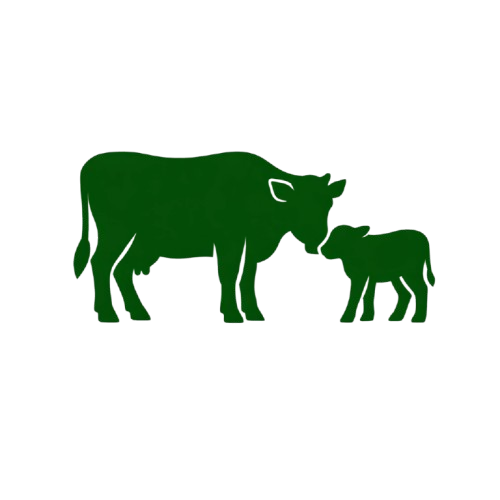
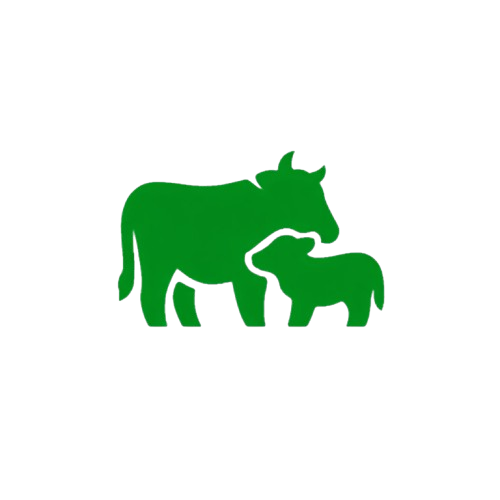
Refatora cores e ajusta ícones da interface
Refatora o uso de cores fixas para usar o tema configurável,
garantindo consistência visual e facilitando a manutenção.
Atualiza ícones e o layout de alertas para melhor clareza.

Remove imagem desnecessária.

Changed region(s): [[0.12, 0.3, 0.87, 0.66]]

diff --git a/src/app/home/index.tsx b/src/app/home/index.tsx
@@ -136,7 +136,7 @@ export default function HomeScreen() {
                 number={stats.healthy}
                 title="Saudáveis"
                 icon="favorite"
-                color={STATUS_CATTLE["healthy"].color}
+                color={colors[STATUS_CATTLE["healthy"].color]}
                 onPress={() => navigation.navigate("CattleList", { status: "healthy" })}
               />
               {/* Em Tratamento */}
@@ -144,7 +144,7 @@ export default function HomeScreen() {
                 number={stats.inTreatment}
                 title="Em Tratamento"
                 icon="medical-services"
-                color={STATUS_CATTLE["in_treatment"].color}
+                color={colors[STATUS_CATTLE["in_treatment"].color]}
                 onPress={() => navigation.navigate("CattleList", { status: "in_treatment" })}
               />
             </View>
@@ -154,7 +154,7 @@ export default function HomeScreen() {
                 number={stats.pendingVaccines}
                 title="Vacinas Pendentes"
                 icon="vaccines"
-                color={STATUS_CATTLE["pending_vaccine"].color}
+                color={colors[STATUS_CATTLE["pending_vaccine"].color]}
                 onPress={() => navigation.navigate("VaccinePending")}
               />
 
@@ -163,16 +163,17 @@ export default function HomeScreen() {
                 number={stats.pregnant}
                 title="Gestantes"
                 icon="stroller"
-                color={STATUS_CATTLE["pregnancy"].color}
+                color={colors[STATUS_CATTLE["pregnancy"].color]}
                 onPress={() => navigation.navigate("CattleList", { status: "pregnancy" })}
               />
             </View>
 
             {/* Atrasadas */}
             {stats.overduePregnancies > 0 && (
-              <View className="rounded-2xl p-4 border border-error bg-error/20">
-                <Text className="text-error font-semibold">
-                  ⚠ {stats.overduePregnancies} gestação{stats.overduePregnancies > 1 ? "ões" : ""} atrasada
+              <View className="flex-row rounded-2xl p-4 border border-error bg-surface items-center gap-2">
+                <IconSymbol name="warning-amber" color={colors.error} size={30} />
+                <Text className="text-muted font-semibold">
+                  {stats.overduePregnancies} gestaç{stats.overduePregnancies > 1 ? "ões" : "ão"} atrasada
                   {stats.overduePregnancies > 1 ? "s" : ""} - Verificar!
                 </Text>
               </View>
@@ -202,10 +203,7 @@ export default function HomeScreen() {
               style={{ opacity: 1 }}
             >
               <View className="flex-row items-center gap-3">
-                <View
-                  className="w-10 h-10 rounded-full items-center justify-center"
-                  style={{ backgroundColor: "#ffffff20" }}
-                >
+                <View className="w-10 h-10 bg-milk_production/20 rounded-full items-center justify-center">
                   <Text className="text-lg">🥛</Text>
                 </View>
                 <Text className="text-foreground font-semibold">Produção de Leite</Text>
@@ -233,10 +231,7 @@ export default function HomeScreen() {
               style={{ opacity: 1 }}
             >
               <View className="flex-row items-center gap-3">
-                <View
-                  className="w-10 h-10 rounded-full items-center justify-center"
-                  style={{ backgroundColor: "#ffd90020" }}
-                >
+                <View className="w-10 h-10 rounded-full items-center justify-center">
                   <Text className="text-lg">🔔</Text>
                 </View>
                 <Text className="text-foreground font-semibold">Notificações Agendadas</Text>

diff --git a/src/components/pregnancy-timeline.tsx b/src/components/pregnancy-timeline.tsx
@@ -1,17 +1,17 @@
 import { Text, TouchableOpacity, View } from "react-native";
 
+import { ThemeColorPalette } from "@/constants/theme";
 import { useColors } from "@/hooks/use-colors";
 import { calculateDaysPregnant, formatDate } from "@/lib/helpers";
 import { Pregnancy } from "@/types";
 
 import { CardEdit } from "./card-edit";
 
-function getStatusColor(isPastDue: boolean, primary: string, result?: string): string {
-  if (result === "success") return "#22C55E";
-  if (result === "complications") return "#F59E0B";
-  if (result === "failed") return "#EF4444";
-  if (isPastDue) return "#EF4444";
-  return primary;
+function getStatusColor(isPastDue: boolean, result?: string): keyof ThemeColorPalette {
+  if (result === "success") return "success";
+  if (result === "complications") return "pregnant_delayed";
+  if (result === "failed" || isPastDue) return "error";
+  return "primary";
 }
 interface PregnancyTimelineProps {
   pregnancy: Pregnancy;
@@ -46,7 +46,7 @@ export function PregnancyTimeline({
   const isPastDue = today > expectedBirthDate && pregnancy.result === "pending";
   const isCompleted = pregnancy.result !== "pending";
 
-  const statusColor = getStatusColor(isPastDue, colors.primary, pregnancy.result);
+  const statusColor = colors[getStatusColor(isPastDue, pregnancy.result)];
 
   return (
     <CardEdit
@@ -82,7 +82,7 @@ export function PregnancyTimeline({
         </View>
         <View className="flex-row justify-between">
           <Text className="text-sm text-muted">Previsão de Parto</Text>
-          <Text className="text-sm font-semibold" style={{ color: isPastDue ? "#EF4444" : colors.foreground }}>
+          <Text className="text-sm font-semibold" style={{ color: isPastDue ? colors.error : colors.foreground }}>
             {formatDate(pregnancy.expectedBirthDate)}
           </Text>
         </View>
@@ -139,10 +139,7 @@ export function PregnancyBadge({ pregnancy }: PregnancyBadgeProps) {
 
   return (
     <View className="px-2 py-0.5 rounded-full mt-1 self-start bg-primary/20">
-      <Text
-        className="text-xs font-medium"
-        style={{ color: getStatusColor(isPastDue, colors.primary, pregnancy.result) }}
-      >
+      <Text className="text-xs font-medium" style={{ color: colors[getStatusColor(isPastDue, pregnancy.result)] }}>
         {getStatusText()}
       </Text>
     </View>

diff --git a/src/components/disease-record.tsx b/src/components/disease-record.tsx
@@ -1,6 +1,7 @@
 import { Text, View } from "react-native";
 
 import { DISEASE_RESULT_LABELS } from "@/constants/const";
+import { useColors } from "@/hooks";
 import { formatDate } from "@/lib/helpers";
 import { Disease } from "@/types";
 
@@ -13,23 +14,24 @@ interface DiseaseRecordProps {
 }
 
 export function DiseaseRecord({ disease, onEdit, onDelete }: DiseaseRecordProps) {
+  const colors = useColors();
+  const resultLabel = DISEASE_RESULT_LABELS[disease.result];
+  const colorValue = colors[resultLabel.color];
+
   return (
     <CardEdit
       className="p-4 flex-row items-center justify-between"
       style={{ opacity: 1 }}
-      accessibilityLabel={`Doença ${disease.type}, status: ${DISEASE_RESULT_LABELS[disease.result].text}`}
+      accessibilityLabel={`Doença ${disease.type}, status: ${resultLabel.text}`}
       accessibilityRole="button"
       handleEdit={onEdit}
       handleDelete={onDelete}
       title={disease.type}
-      icon={DISEASE_RESULT_LABELS[disease.result].icon}
+      icon={resultLabel.icon}
       label={
-        <View
-          className="px-2 py-0.5 rounded-full"
-          style={{ backgroundColor: `${DISEASE_RESULT_LABELS[disease.result].color}20` }}
-        >
-          <Text className="text-xs font-medium" style={{ color: DISEASE_RESULT_LABELS[disease.result].color }}>
-            {DISEASE_RESULT_LABELS[disease.result].text}
+        <View className="px-2 py-0.5 rounded-full" style={{ backgroundColor: `${colorValue}20` }}>
+          <Text className="text-xs font-medium" style={{ color: colorValue }}>
+            {resultLabel.text}
           </Text>
         </View>
       }

diff --git a/src/constants/const.ts b/src/constants/const.ts
@@ -1,3 +1,4 @@
+import { type ThemeColorPalette } from "@/lib/_core/theme";
 import { CattleResult, DiseaseResult, PregnancyResult } from "@/types";
 
 export const COOKIE_NAME = "app_session_id";
@@ -75,7 +76,10 @@ export const PREGNANCY_RESULT_LABELS: Record<PregnancyResult, string> = {
 /**
  * Labels para resultados de tratamento
  */
-export const DISEASE_RESULT_LABELS: Record<DiseaseResult, { color: string; text: string; icon: string }> = {
+export const DISEASE_RESULT_LABELS: Record<
+  DiseaseResult,
+  { color: keyof ThemeColorPalette; text: string; icon: string }
+> = {
   in_treatment: { text: "Em Tratamento", color: "treatment", icon: "🏥" },
   cured: { text: "Curado", color: "healthy", icon: "💚" },
   death: { text: "Óbito", color: "deceased", icon: "🪦" },
@@ -84,7 +88,7 @@ export const DISEASE_RESULT_LABELS: Record<DiseaseResult, { color: string; text:
 /**
  * STATUS do GADO
  */
-export const STATUS_CATTLE: Record<CattleResult, { color: string; text: string; icon: string }> = {
+export const STATUS_CATTLE: Record<CattleResult, { color: keyof ThemeColorPalette; text: string; icon: string }> = {
   in_treatment: { color: "treatment", text: "Em Tratamento", icon: "🏥" },
   healthy: { color: "healthy", text: "Saudável", icon: "💚" },
   death: { color: "deceased", text: "Óbito", icon: "🪦" },

diff --git a/src/components/vaccine-item.tsx b/src/components/vaccine-item.tsx
@@ -31,7 +31,7 @@ export function VaccineItem({ vaccine, onEdit, onDelete }: VaccineItemProps) {
             <Text
               className="text-sm mt-1"
               style={{
-                color: daysUntilNextDose !== null && daysUntilNextDose < 0 ? "#EF4444" : colors.success,
+                color: daysUntilNextDose !== null && daysUntilNextDose < 0 ? colors.error : colors.success,
               }}
             >
               Próxima: {formatDate(vaccine.nextDoseDate)}
@@ -48,10 +48,11 @@ interface VaccineBadgeProps {
 }
 
 export function VaccineBadge({ vaccine }: VaccineBadgeProps) {
+  const colors = useColors();
   const getStatusInfoDetail = () => {
     const status = getVaccineStatus(vaccine.nextDoseDate);
 
-    return { color: getVaccineStatusColor(status), label: getVaccineStatusLabel(vaccine.nextDoseDate), status };
+    return { color: colors[getVaccineStatusColor(status)], label: getVaccineStatusLabel(vaccine.nextDoseDate), status };
   };
   const status = getStatusInfoDetail();
 

diff --git a/src/lib/helpers.ts b/src/lib/helpers.ts
@@ -2,6 +2,8 @@
  * Funções auxiliares para o aplicativo Meus Gados
  */
 
+import { ThemeColorPalette } from "./_core/theme";
+
 /**
  * Calcula a idade em anos a partir da data de nascimento
  */
@@ -164,16 +166,16 @@ export function getVaccineStatus(nextDose?: string): "up_to_date" | "upcoming" |
 /**
  * Retorna cor para status de vacina
  */
-export function getVaccineStatusColor(status: ReturnType<typeof getVaccineStatus>): string {
+export function getVaccineStatusColor(status: ReturnType<typeof getVaccineStatus>): keyof ThemeColorPalette {
   switch (status) {
     case "up_to_date":
-      return "#22C55E"; // success
+      return "success";
     case "upcoming":
-      return "#F59E0B"; // warning
+      return "warning";
     case "overdue":
-      return "#EF4444"; // error
+      return "error";
     default:
-      return "#687076"; // muted
+      return "muted";
   }
 }
 

diff --git a/src/components/cattle-card.tsx b/src/components/cattle-card.tsx
@@ -37,7 +37,7 @@ export function CattleCard({ cattle, showStatus = true, status, onPress }: Cattl
       {/* Status Bar */}
       <View
         className="w-1 h-20 rounded-full"
-        style={{ backgroundColor: STATUS_CATTLE[status].color }}
+        style={{ backgroundColor: colors[STATUS_CATTLE[status].color] }}
         accessible={false}
       />
 
@@ -55,7 +55,7 @@ export function CattleCard({ cattle, showStatus = true, status, onPress }: Cattl
       {showStatus && (
         <View className="flex items-center">
           <Text className="text-lg">{STATUS_CATTLE[status].icon}</Text>
-          <Text style={{ color: STATUS_CATTLE[status].color }}>{STATUS_CATTLE[status].text}</Text>
+          <Text style={{ color: colors[STATUS_CATTLE[status].color] }}>{STATUS_CATTLE[status].text}</Text>
         </View>
       )}
 

diff --git a/app.config.ts b/app.config.ts
@@ -53,7 +53,7 @@ const config: ExpoConfig = {
   },
   android: {
     adaptiveIcon: {
-      backgroundColor: "#E6F4FE",
+      backgroundColor: "#a2d1a3",
       foregroundImage: "./src/assets/images/android-icon-foreground.png",
       backgroundImage: "./src/assets/images/android-icon-background.png",
       monochromeImage: "./src/assets/images/android-icon-monochrome.png",
@@ -90,9 +90,9 @@ const config: ExpoConfig = {
         image: "./src/assets/images/splash-icon.png",
         imageWidth: 200,
         resizeMode: "contain",
-        backgroundColor: "#ffffff",
+        backgroundColor: "#c0e2c1",
         dark: {
-          backgroundColor: "#000000",
+          backgroundColor: "#016805",
         },
       },
     ],

diff --git a/src/theme.config.js b/src/theme.config.js
@@ -9,6 +9,14 @@ const themeColors = {
   success: { light: "#16c455", dark: "#34c76a" },
   warning: { light: "#F59E0B", dark: "#FBBF24" },
   error: { light: "#EF4444", dark: "#F87171" },
+  treatment: { light: "#3B82F6", dark: "#60A5FA" },
+  healthy: { light: "#16c455", dark: "#34c76a" },
+  deceased: { light: "#6B7280", dark: "#9CA3AF" },
+  pregnant: { light: "#A855F7", dark: "#C084FC" },
+  pregnant_delayed: { light: "#F97316", dark: "#FB923C" },
+  vaccine_pending: { light: "#EAB308", dark: "#FACC15" },
+  milk_production: { light: "#06B6D4", dark: "#22D3EE" },
+  scheduled_notification: { light: "#6366F1", dark: "#818CF8" },
 };
 
 module.exports = { themeColors };

diff --git a/src/theme.config.d.ts b/src/theme.config.d.ts
@@ -8,6 +8,14 @@ export const themeColors: {
   success: { light: string; dark: string };
   warning: { light: string; dark: string };
   error: { light: string; dark: string };
+  treatment: { light: string; dark: string };
+  healthy: { light: string; dark: string };
+  deceased: { light: string; dark: string };
+  pregnant: { light: string; dark: string };
+  pregnant_delayed: { light: string; dark: string };
+  vaccine_pending: { light: string; dark: string };
+  milk_production: { light: string; dark: string };
+  scheduled_notification: { light: string; dark: string };
 };
 
 declare const themeConfig: {

diff --git a/src/components/form-select.tsx b/src/components/form-select.tsx
@@ -67,7 +67,8 @@ export function FormSelect({
       {error && <Text className="text-error text-xs">{error}</Text>}
       <Modal visible={showOptions} transparent animationType="fade" onRequestClose={handleClose}>
         <TouchableOpacity
-          style={{ flex: 1, backgroundColor: "#00000050", justifyContent: "center", padding: 24 }}
+          className="flex-1 bg-black/40 justify-center"
+          style={{ padding: 24 }}
           activeOpacity={1}
           onPress={handleClose}
         >

diff --git a/src/app/vaccines/pending.tsx b/src/app/vaccines/pending.tsx
@@ -72,7 +72,7 @@ export default function PendingVaccinesScreen() {
             <View className="gap-3 pb-6">
               {pendingVaccines.map((item) => {
                 const status = getVaccineStatus(item.nextDoseDate);
-                const statusColor = getVaccineStatusColor(status);
+                const statusColor = colors[getVaccineStatusColor(status)];
                 const days = item.nextDoseDate ? daysUntil(item.nextDoseDate) : 0;
                 const isOverdue = days < 0;
 
